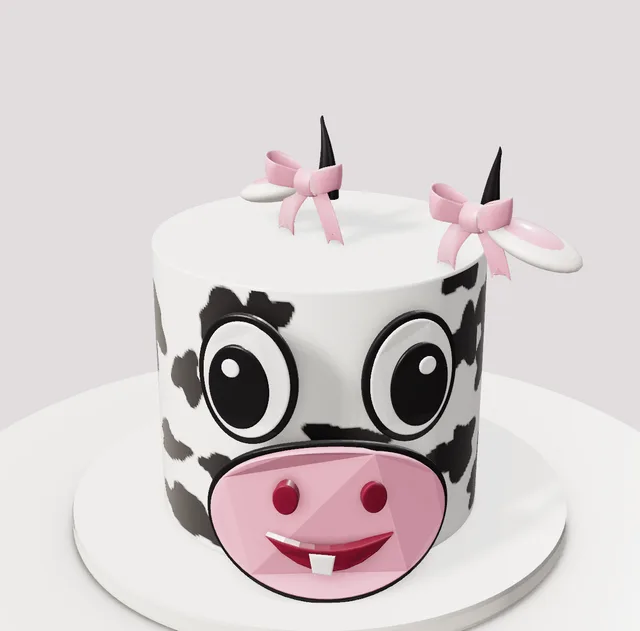
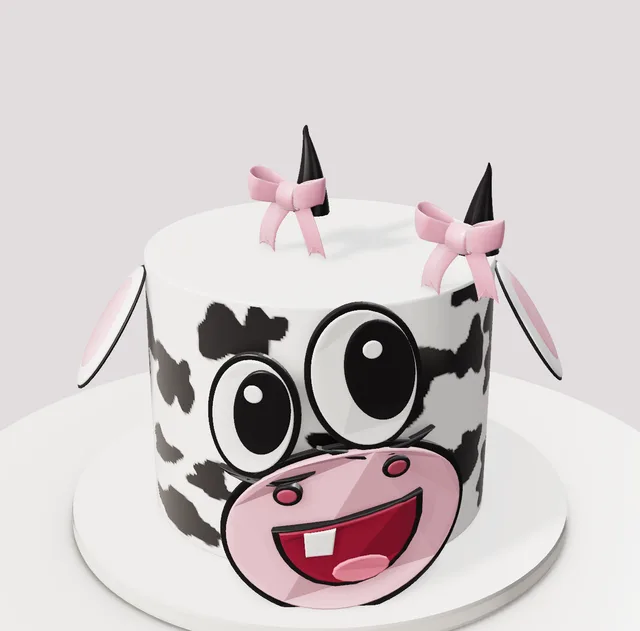
Signature cow: cartoon face redrawn from photo, floppy side ears, chunkier horns
Claude-Session: https://claude.ai/code/session_016sN14hzH19WJ5zrp8o2QGp

diff --git a/studio.html b/studio.html
@@ -1393,15 +1393,26 @@ function dollarFaceParts(q,c,mode,dc){const g=dollarGeo();g.scale(1.6,1.6,.35);g
 // ---------- bows, cow ----------
 function sugarBowParts(q,c){const g=bowGeo(q,.9);g.rotateX(-PI/2);return[[bowMat(c),g]]}
 function cowTopParts(q,c,mode,dc){const horns=[],ears=[],inner=[];const sp=(dc&&dc.spread)||1.15;
- for(const sd of[-1,1]){const pts=[];for(let i=0;i<=12;i++){const t=i/12;pts.push(new V3(sd*(sp-.1*t+.18*t*t),t*.95,-.05*t))}const tube=new T.TubeGeometry(new T.CatmullRomCurve3(pts),20,.16,14,false),pp=tube.attributes.position;for(let i=0;i<pp.count;i++){const y=pp.getY(i),k=Math.max(.15,1-y/1.05),cx=sd*(sp-.1*(y/.95)+.18*(y/.95)**2);pp.setX(i,cx+(pp.getX(i)-cx)*k);pp.setZ(i,pp.getZ(i)*k)}tube.computeVertexNormals();horns.push(tube);
-  const ear=new T.SphereGeometry(1,24,14);ear.scale(.6,.16,.38);ear.rotateZ(-sd*.28);ear.translate(sd*(sp+.62),.02,.12);ears.push(ear);const inn=new T.SphereGeometry(1,20,12);inn.scale(.44,.1,.27);inn.rotateZ(-sd*.28);inn.translate(sd*(sp+.62),.1,.14);inner.push(inn)}
+ for(const sd of[-1,1]){const pts=[];for(let i=0;i<=12;i++){const t=i/12;pts.push(new V3(sd*(sp-.1*t+.18*t*t),t*.95,-.05*t))}const tube=new T.TubeGeometry(new T.CatmullRomCurve3(pts),20,.24,14,false),pp=tube.attributes.position;for(let i=0;i<pp.count;i++){const y=pp.getY(i),k=Math.max(.15,1-y/1.05),cx=sd*(sp-.1*(y/.95)+.18*(y/.95)**2);pp.setX(i,cx+(pp.getX(i)-cx)*k);pp.setZ(i,pp.getZ(i)*k)}tube.computeVertexNormals();horns.push(tube);
+  }
  const bows=[];for(const sd of[-1,1]){const b=bowGeo(q,.8);b.translate(sd*sp,.25,.25);bows.push(b)}
- return[[dmat('#1d1b1f',{r:.35,cc:.5}),mg(horns)],[dmat('#fbf7f1',{r:.45,cc:.3}),mg(ears)],[dmat('#f3a6c0',{r:.45,cc:.3}),mg(inner)],[bowMat(c),mergeGeometries(bows)]]}
-function cowFaceParts(q,c,mode,dc){const black=[],white=[],pink=[],dark=[];
- for(const sd of[-1,1]){const cx=sd*.55,cy=.55;black.push(sgOval(cx,cy,.34,.44,.025));white.push(sgOval(cx,cy,.29,.39,.035));black.push(sgOval(cx+sd*.04,cy-.05,.2,.28,.05));white.push(sgOval(cx+sd*.08,cy+.08,.05,.05,.06))}
- black.push(sgOval(0,-.45,.86,.6,.025));pink.push(sgOval(0,-.45,.81,.55,.05));for(const sd of[-1,1])dark.push(sgOval(sd*.28,-.25,.07,.1,.07));
- const sm=new T.Shape();sm.moveTo(-.4,-.55);sm.quadraticCurveTo(0,-1.0,.4,-.55);sm.quadraticCurveTo(0,-.72,-.4,-.55);dark.push(flatShape(sm,.065,0));const tooth=new T.Shape();tooth.moveTo(-.12,-.66);tooth.lineTo(.02,-.67);tooth.lineTo(.0,-.8);tooth.lineTo(-.1,-.78);tooth.closePath();white.push(flatShape(tooth,.075,0));
- const R=sgR(dc),B=l=>sgBend(mg(l),R);return[[dmat('#1d1b1f',{r:.35,cc:.5}),B(black)],[dmat('#ffffff',{r:.35,cc:.4}),B(white)],[dmat(c,{r:.4,cc:.4}),B(pink)],[dmat('#7a1f35',{r:.4,cc:.4}),B(dark)]]}
+ return[[dmat('#1d1b1f',{r:.35,cc:.5}),mg(horns)],[bowMat(c),mergeGeometries(bows)]]}
+function cowEarParts(q,c){const e=new T.SphereGeometry(1,28,18);e.scale(.5,.78,.09);e.translate(0,-.62,0);e.rotateX(-.55);const o=new T.SphereGeometry(1,28,18);o.scale(.53,.81,.06);o.translate(0,-.62,-.02);o.rotateX(-.55);const i=new T.SphereGeometry(1,24,14);i.scale(.36,.6,.06);i.translate(0,-.6,.05);i.rotateX(-.55);return[[dmat('#ffffff',{r:.45,cc:.3}),e],[dmat('#1d1b1f',{r:.4,cc:.4}),o],[dmat(c,{r:.45,cc:.3}),i]]}
+function cowFaceParts(q,c,mode,dc){const black=[],white=[],pink=[],dark=[],red=[],tongue=[];
+ const rov=(x,y,rx,ry,rot,d)=>{const pts=[],cr=Math.cos(rot),sr=Math.sin(rot);for(let i=0;i<72;i++){const a=i/72*2*PI,u=rx*Math.cos(a),v=ry*Math.sin(a);pts.push(new T.Vector2(x+u*cr-v*sr,y+u*sr+v*cr))}return flatShape(new T.Shape(pts),d,0)};
+ // eyes: left smaller and lower, right bigger and higher, pupils looking up and right
+ const E=[[-.52,.3,.27,.4,-.12,.24],[.22,.6,.33,.47,.18,.3]];
+ for(const[x,y,rx,ry,r,pr]of E){black.push(rov(x,y,rx+.045,ry+.045,r,.03));white.push(rov(x,y,rx,ry,r,.04));black.push(rov(x+rx*.28,y+ry*.12,rx*.66,ry*.74,r,.055));white.push(rov(x+rx*.1,y+ry*.45,.05,.05,0,.065));
+  const l=new T.Shape();l.moveTo(x-rx*.9,y-ry*1.05);l.quadraticCurveTo(x+rx*.3,y-ry*1.45,x+rx*1.5,y-ry*.95);l.quadraticCurveTo(x+rx*.3,y-ry*1.3,x-rx*.9,y-ry*1.05);black.push(flatShape(l,.035,0))}
+ // muzzle
+ black.push(rov(.12,-.52,.9,.64,.22,.03));pink.push(rov(.12,-.52,.84,.58,.22,.05));
+ for(const[x,y]of[[-.28,-.24],[.43,-.06]]){black.push(rov(x,y,.085,.065,.2,.06));dark.push(rov(x,y,.055,.038,.2,.07))}
+ // big open smile: straight top lip, round bottom
+ const M=k=>{const cx=.12,cy=-.62,P=(x,y)=>[cx+(x-cx)*k,cy+(y-cy)*k];const s=new T.Shape();s.moveTo(...P(-.42,-.52));s.quadraticCurveTo(...P(.1,-.42),...P(.66,-.26));s.bezierCurveTo(...P(.72,-.75),...P(.25,-1.05),...P(-.12,-.92));s.quadraticCurveTo(...P(-.38,-.8),...P(-.42,-.52));return s};
+ black.push(flatShape(M(.92),.06,0));red.push(flatShape(M(.82),.07,0));
+ const tg=new T.Shape();tg.absellipse(.2,-.8,.18,.08,0,2*PI,false,.15);tongue.push(flatShape(tg,.075,0));
+ const th=new T.Shape();th.moveTo(-.16,-.52);th.lineTo(.02,-.49);th.lineTo(.0,-.66);th.lineTo(-.15,-.68);th.closePath();white.push(flatShape(th,.08,0));
+ const R=sgR(dc),B=l=>sgBend(mg(l),R);return[[dmat('#1d1b1f',{r:.35,cc:.5}),B(black)],[dmat('#ffffff',{r:.35,cc:.4}),B(white)],[dmat(c,{r:.4,cc:.4}),B(pink)],[dmat('#a0475c',{r:.4,cc:.4}),B(dark)],[dmat('#8a2338',{r:.45,cc:.4}),B(red)],[dmat('#e77f96',{r:.45,cc:.4}),B(tongue)]]}
 // ---------- baby shower ----------
 function teddyParts(q,c){const S=(sx,sy,sz,x,y,z)=>{const g=new T.SphereGeometry(1,20,14);g.scale(sx,sy,sz);g.translate(x,y,z);return g};
  const fur=[S(.34,.36,.3,0,.36,0),S(.28,.26,.26,0,.92,0),S(.1,.1,.06,-.2,1.14,0),S(.1,.1,.06,.2,1.14,0),S(.12,.1,.1,-.3,.42,.16),S(.12,.1,.1,.3,.42,.16),S(.13,.12,.18,-.18,.1,.26),S(.13,.12,.18,.18,.1,.26)];
@@ -1451,7 +1462,8 @@ Object.assign(DECOR,{
  dollarsign:{label:'Gold Dollar Signs',layouts:['cluster','crown'],layout:'cluster',count:2,max:6,color:'#d4ae5a',colors:['#d4ae5a','#c9ccd2','#1d1b1f'],sp:1,sink:.35,noTilt:true,spin:0,make:dollarStandParts},
  dollarface:{label:'Dollar Sign Plaque',layouts:['scatter','band'],layout:'scatter',count:1,max:6,color:'#d4ae5a',colors:['#d4ae5a','#c9ccd2','#1d1b1f'],sp:1.2,side:'face',roll:0,sink:0,embed:-.02,make:dollarFaceParts},
  sugarbows:{label:'Fondant Bows',layouts:['band','scatter','cascade','crown'],layout:'band',count:4,max:16,color:'#f3a6c0',colors:['#f3a6c0','#fbf7f1','#d4ae5a','#c9dbef','#e8475f','#1d1b1f'],sp:1.4,side:'face',roll:.2,sink:0,embed:-.02,make:sugarBowParts},
- cowtop:{label:'Cow Horns, Ears And Bows',layouts:['cluster'],layout:'cluster',count:1,max:1,color:'#f3a6c0',colors:['#f3a6c0','#c9dbef','#fbf7f1','#e8475f'],sp:3,side:'up',sink:.02,noTilt:true,spin:0,make:cowTopParts},
+ cowtop:{label:'Cow Horns And Bows',layouts:['cluster'],layout:'cluster',count:1,max:1,color:'#f3a6c0',colors:['#f3a6c0','#c9dbef','#fbf7f1','#e8475f'],sp:3,side:'up',sink:.02,noTilt:true,spin:0,make:cowTopParts},
+ cowear:{label:'Floppy Cow Ear',layouts:['band'],layout:'band',count:1,max:2,color:'#f3b6c8',colors:['#f3b6c8','#f3a6c0'],sp:3,roll:0,sink:0,embed:.02,make:cowEarParts},
  cowface:{label:'Cartoon Cow Face',layouts:['band','scatter'],layout:'band',count:1,max:1,color:'#f3a6c0',colors:['#f3a6c0','#e9a6ba'],sp:3,side:'face',roll:0,sink:0,embed:-.02,make:cowFaceParts},
  teddy:{label:'Fondant Teddy Bears',layouts:['cluster','crown','scatter'],layout:'cluster',count:1,max:6,color:'#fbf7f1',colors:['#fbf7f1','#c9a26b','#f3c1cf','#c9dbef'],sp:1.4,side:'up',sink:.02,noTilt:true,spin:0,make:teddyParts},
  abcblocks:{label:'Alphabet Blocks',mixes:true,layouts:['cluster','crown','scatter'],layout:'cluster',count:3,max:12,color:'#2f6fd0',colors:['#2f6fd0','#e8475f','#5cc06c','#f2c230','#f3a6c0'],sp:.7,side:'up',sink:0,embed:.02,noTilt:true,make:abcBlockParts},
@@ -1461,7 +1473,7 @@ Object.assign(DECOR,{
  brooch:{label:'Jeweled Brooch Burst',layouts:['band','scatter'],layout:'band',count:1,max:4,color:'#d9a08a',colors:['#d9a08a','#d4ae5a','#c9ccd2'],sp:2,side:'face',roll:0,sink:0,embed:-.02,make:broochParts},
  hoop:{label:'Floral Hoop Topper',layouts:['cluster'],layout:'cluster',count:1,max:1,color:'#d4ae5a',colors:['#d4ae5a','#c9ccd2','#d9a08a'],sp:2,sink:.4,noTilt:true,spin:0,make:hoopParts},
  bee:{label:'Bumble Bee',layouts:['cluster','crown','scatter'],layout:'cluster',count:1,max:6,color:'#ffd21f',colors:['#ffd21f'],sp:1.4,side:'up',sink:.02,noTilt:true,spin:0,make:beeParts}});
-DECOR_CATS.push({key:'signature',label:'Signature Cake Pieces',items:['soccerball','football','hoopball','baseball2','popcorn','ticket','clapper','crawfish','corncob','potato','potlid','cash','dollarsign','dollarface','sugarbows','cowtop','cowface','teddy','abcblocks','balloon','ladder','buttons','brooch','hoop','bee']});
+DECOR_CATS.push({key:'signature',label:'Signature Cake Pieces',items:['soccerball','football','hoopball','baseball2','popcorn','ticket','clapper','crawfish','corncob','potato','potlid','cash','dollarsign','dollarface','sugarbows','cowtop','cowear','cowface','teddy','abcblocks','balloon','ladder','buttons','brooch','hoop','bee']});
 {const ic=(k,b)=>DECOR_ICONS[k]=di(b);
  ic('soccerball','<circle cx="20" cy="15" r="10" fill="#fff" stroke="#222"/><path d="M20 10l4 3-1.5 4.5h-5L16 13z" fill="#222"/>');
  ic('football','<ellipse cx="20" cy="15" rx="13" ry="8" fill="#7a4022"/><path d="M15 15h10M17 13v4M20 13v4M23 13v4" stroke="#fff" stroke-width="1.2"/>');
@@ -1479,6 +1491,7 @@ DECOR_CATS.push({key:'signature',label:'Signature Cake Pieces',items:['soccerbal
  ic('dollarface','<rect x="8" y="4" width="24" height="22" rx="3" fill="#fff4ef"/><text x="20" y="22" font-size="17" text-anchor="middle" fill="#d4ae5a" font-weight="700">$</text>');
  ic('sugarbows','<path d="M20 15l-10-6v12zM20 15l10-6v12z" fill="#f3a6c0"/><circle cx="20" cy="15" r="2.6" fill="#e17ca0"/>');
  ic('cowtop','<path d="M10 22q-2-10 3-14M30 22q2-10-3-14" stroke="#1d1b1f" stroke-width="3" fill="none"/><ellipse cx="5" cy="22" rx="5" ry="2.5" fill="#f3a6c0"/><ellipse cx="35" cy="22" rx="5" ry="2.5" fill="#f3a6c0"/>');
+ ic('cowear','<ellipse cx="20" cy="20" rx="9" ry="14" fill="#fff" stroke="#1d1b1f" stroke-width="2"/><ellipse cx="20" cy="21" rx="6" ry="10" fill="#f3b6c8"/>');
  ic('cowface','<ellipse cx="14" cy="10" rx="4" ry="5" fill="#fff" stroke="#1d1b1f"/><ellipse cx="26" cy="10" rx="4" ry="5" fill="#fff" stroke="#1d1b1f"/><ellipse cx="20" cy="21" rx="10" ry="6" fill="#f3a6c0" stroke="#1d1b1f"/>');
  ic('teddy','<circle cx="20" cy="20" r="7" fill="#fbf7f1" stroke="#d9cdbd"/><circle cx="20" cy="10" r="5" fill="#fbf7f1" stroke="#d9cdbd"/><circle cx="16" cy="6.5" r="2" fill="#fbf7f1" stroke="#d9cdbd"/><circle cx="24" cy="6.5" r="2" fill="#fbf7f1" stroke="#d9cdbd"/>');
  ic('abcblocks','<rect x="7" y="13" width="12" height="12" fill="#fff" stroke="#2f6fd0"/><rect x="21" y="13" width="12" height="12" fill="#fff" stroke="#e8475f"/><rect x="14" y="2" width="12" height="11" fill="#fff" stroke="#5cc06c"/>');
@@ -1566,8 +1579,8 @@ THEMES.unshift(
   newTier(8.6,6,{color:'#7cc8b8',finish:'fondant',top:'none',bottom:'none',stencil:{pattern:'harlequin',color:'#c4e8df',size:1.6,height:3,y:-1.4},decor:[DC('glitterspheres','cascade',6,{color:'#b0825f',rot:-100,size:290}),DC('glitterspheres','cascade',5,{color:'#f3ead8',rot:-96,size:300}),DC('spheres','cascade',3,{color:'#5fb3a3',rot:-104,size:280}),DC('glitterspheres','cascade',4,{color:'#8c6a52',rot:-100,size:220})]}),
   newTier(7.6,5.8,{color:'#7cc8b8',finish:'fondant',top:'none',bottom:'none',decor:[DC('glitterspheres','cascade',5,{color:'#b0825f',rot:-100,size:280}),DC('glitterspheres','cascade',4,{color:'#f3ead8',rot:-96,size:290}),DC('spheres','cascade',3,{color:'#5fb3a3',rot:-104,size:270}),DC('glitterspheres','cascade',3,{color:'#8c6a52',rot:-100,size:210})]}),
   newTier(6.6,5.6,{color:'#7cc8b8',finish:'fondant',top:'none',bottom:'none',decor:[DC('glitterspheres','cascade',5,{color:'#b0825f',rot:-100,size:270}),DC('glitterspheres','cascade',4,{color:'#f3ead8',rot:-96,size:280}),DC('spheres','cascade',3,{color:'#5fb3a3',rot:-104,size:260}),DC('sprinkles','cascade',220,{mix:['#5fb3a3','#d4ae5a','#c9ccd2','#fbf7f1'],rot:30})]})]}},
- {key:'sig_cow',name:'Pink Bow Cow',tag:SIG,blurb:'A tall white cow cake with black spots, a cartoon face and pink nose, black horns, floppy ears and pink bows.',d:{board:'white',boardColor:'#fbf7f1',topper:'none',tiers:[
-  newTier(7,6,{color:'#ffffff',finish:'fondant',print:'cow',printColor:'#1d1b1f',top:'none',bottom:'none',decor:[DC('cowface','band',1,{color:'#f3a6c0',size:285,R:3.5,rot:55}),DC('cowtop','cluster',1,{color:'#f3a6c0',size:170,center:true,face:95})]})]}},
+ {key:'sig_cow',name:'Pink Bow Cow',tag:SIG,blurb:'A white cow cake with black spots, big cartoon eyes, a pink muzzle with a wide open grin, floppy pink-lined ears, black horns and pink bows.',d:{board:'white',boardColor:'#fbf7f1',topper:'none',tiers:[
+  newTier(8,6.2,{color:'#ffffff',finish:'fondant',print:'cow',printColor:'#1d1b1f',top:'none',bottom:'none',decor:[DC('cowface','band',1,{color:'#f3b6c8',size:300,R:4,rot:55,y:.3}),DC('cowear','band',1,{color:'#f3b6c8',size:200,rot:-25,y:2.6}),DC('cowear','band',1,{color:'#f3b6c8',size:200,rot:135,y:2.6}),DC('cowtop','cluster',1,{color:'#f3a6c0',size:190,center:true,face:95})]})]}},
  {key:'sig_pillows',name:'Gold Damask Pillows',tag:SIG,blurb:'A pillow cake: a base tier in gold damask with a ring of ivory roses, a puffy pleated pillow with pinched corners and gold tassels, and a silver rose dome topped with ivory roses.',d:{board:'silver',boardShape:'square',topper:'none',tiers:[
   newTier(10,3.6,{shape:'square',color:'#fbf7f1',finish:'fondant',texture:'dimple',prof:'pillow',top:'rope',pipe:'#d4ae5a',bottom:'rope',bottomColor:'#d4ae5a',stencil:{pattern:'damask',color:'#d4ae5a',size:1.8,height:1.8,y:-.8},decor:[DC('roses','band',16,{color:'#fbf7f1',size:130,y:-1.4})]}),
   newTier(7.5,3.2,{shape:'square',color:'#fbf7f1',finish:'fondant',texture:'ruffle',prof:'pillow',top:'none',bottom:'scrolls',bottomColor:'#d4ae5a'}),

diff --git a/tools/signature-decor.js b/tools/signature-decor.js
@@ -61,15 +61,26 @@ function dollarFaceParts(q,c,mode,dc){const g=dollarGeo();g.scale(1.6,1.6,.35);g
 // ---------- bows, cow ----------
 function sugarBowParts(q,c){const g=bowGeo(q,.9);g.rotateX(-PI/2);return[[bowMat(c),g]]}
 function cowTopParts(q,c,mode,dc){const horns=[],ears=[],inner=[];const sp=(dc&&dc.spread)||1.15;
- for(const sd of[-1,1]){const pts=[];for(let i=0;i<=12;i++){const t=i/12;pts.push(new V3(sd*(sp-.1*t+.18*t*t),t*.95,-.05*t))}const tube=new T.TubeGeometry(new T.CatmullRomCurve3(pts),20,.16,14,false),pp=tube.attributes.position;for(let i=0;i<pp.count;i++){const y=pp.getY(i),k=Math.max(.15,1-y/1.05),cx=sd*(sp-.1*(y/.95)+.18*(y/.95)**2);pp.setX(i,cx+(pp.getX(i)-cx)*k);pp.setZ(i,pp.getZ(i)*k)}tube.computeVertexNormals();horns.push(tube);
-  const ear=new T.SphereGeometry(1,24,14);ear.scale(.6,.16,.38);ear.rotateZ(-sd*.28);ear.translate(sd*(sp+.62),.02,.12);ears.push(ear);const inn=new T.SphereGeometry(1,20,12);inn.scale(.44,.1,.27);inn.rotateZ(-sd*.28);inn.translate(sd*(sp+.62),.1,.14);inner.push(inn)}
+ for(const sd of[-1,1]){const pts=[];for(let i=0;i<=12;i++){const t=i/12;pts.push(new V3(sd*(sp-.1*t+.18*t*t),t*.95,-.05*t))}const tube=new T.TubeGeometry(new T.CatmullRomCurve3(pts),20,.24,14,false),pp=tube.attributes.position;for(let i=0;i<pp.count;i++){const y=pp.getY(i),k=Math.max(.15,1-y/1.05),cx=sd*(sp-.1*(y/.95)+.18*(y/.95)**2);pp.setX(i,cx+(pp.getX(i)-cx)*k);pp.setZ(i,pp.getZ(i)*k)}tube.computeVertexNormals();horns.push(tube);
+  }
  const bows=[];for(const sd of[-1,1]){const b=bowGeo(q,.8);b.translate(sd*sp,.25,.25);bows.push(b)}
- return[[dmat('#1d1b1f',{r:.35,cc:.5}),mg(horns)],[dmat('#fbf7f1',{r:.45,cc:.3}),mg(ears)],[dmat('#f3a6c0',{r:.45,cc:.3}),mg(inner)],[bowMat(c),mergeGeometries(bows)]]}
-function cowFaceParts(q,c,mode,dc){const black=[],white=[],pink=[],dark=[];
- for(const sd of[-1,1]){const cx=sd*.55,cy=.55;black.push(sgOval(cx,cy,.34,.44,.025));white.push(sgOval(cx,cy,.29,.39,.035));black.push(sgOval(cx+sd*.04,cy-.05,.2,.28,.05));white.push(sgOval(cx+sd*.08,cy+.08,.05,.05,.06))}
- black.push(sgOval(0,-.45,.86,.6,.025));pink.push(sgOval(0,-.45,.81,.55,.05));for(const sd of[-1,1])dark.push(sgOval(sd*.28,-.25,.07,.1,.07));
- const sm=new T.Shape();sm.moveTo(-.4,-.55);sm.quadraticCurveTo(0,-1.0,.4,-.55);sm.quadraticCurveTo(0,-.72,-.4,-.55);dark.push(flatShape(sm,.065,0));const tooth=new T.Shape();tooth.moveTo(-.12,-.66);tooth.lineTo(.02,-.67);tooth.lineTo(.0,-.8);tooth.lineTo(-.1,-.78);tooth.closePath();white.push(flatShape(tooth,.075,0));
- const R=sgR(dc),B=l=>sgBend(mg(l),R);return[[dmat('#1d1b1f',{r:.35,cc:.5}),B(black)],[dmat('#ffffff',{r:.35,cc:.4}),B(white)],[dmat(c,{r:.4,cc:.4}),B(pink)],[dmat('#7a1f35',{r:.4,cc:.4}),B(dark)]]}
+ return[[dmat('#1d1b1f',{r:.35,cc:.5}),mg(horns)],[bowMat(c),mergeGeometries(bows)]]}
+function cowEarParts(q,c){const e=new T.SphereGeometry(1,28,18);e.scale(.5,.78,.09);e.translate(0,-.62,0);e.rotateX(-.55);const o=new T.SphereGeometry(1,28,18);o.scale(.53,.81,.06);o.translate(0,-.62,-.02);o.rotateX(-.55);const i=new T.SphereGeometry(1,24,14);i.scale(.36,.6,.06);i.translate(0,-.6,.05);i.rotateX(-.55);return[[dmat('#ffffff',{r:.45,cc:.3}),e],[dmat('#1d1b1f',{r:.4,cc:.4}),o],[dmat(c,{r:.45,cc:.3}),i]]}
+function cowFaceParts(q,c,mode,dc){const black=[],white=[],pink=[],dark=[],red=[],tongue=[];
+ const rov=(x,y,rx,ry,rot,d)=>{const pts=[],cr=Math.cos(rot),sr=Math.sin(rot);for(let i=0;i<72;i++){const a=i/72*2*PI,u=rx*Math.cos(a),v=ry*Math.sin(a);pts.push(new T.Vector2(x+u*cr-v*sr,y+u*sr+v*cr))}return flatShape(new T.Shape(pts),d,0)};
+ // eyes: left smaller and lower, right bigger and higher, pupils looking up and right
+ const E=[[-.52,.3,.27,.4,-.12,.24],[.22,.6,.33,.47,.18,.3]];
+ for(const[x,y,rx,ry,r,pr]of E){black.push(rov(x,y,rx+.045,ry+.045,r,.03));white.push(rov(x,y,rx,ry,r,.04));black.push(rov(x+rx*.28,y+ry*.12,rx*.66,ry*.74,r,.055));white.push(rov(x+rx*.1,y+ry*.45,.05,.05,0,.065));
+  const l=new T.Shape();l.moveTo(x-rx*.9,y-ry*1.05);l.quadraticCurveTo(x+rx*.3,y-ry*1.45,x+rx*1.5,y-ry*.95);l.quadraticCurveTo(x+rx*.3,y-ry*1.3,x-rx*.9,y-ry*1.05);black.push(flatShape(l,.035,0))}
+ // muzzle
+ black.push(rov(.12,-.52,.9,.64,.22,.03));pink.push(rov(.12,-.52,.84,.58,.22,.05));
+ for(const[x,y]of[[-.28,-.24],[.43,-.06]]){black.push(rov(x,y,.085,.065,.2,.06));dark.push(rov(x,y,.055,.038,.2,.07))}
+ // big open smile: straight top lip, round bottom
+ const M=k=>{const cx=.12,cy=-.62,P=(x,y)=>[cx+(x-cx)*k,cy+(y-cy)*k];const s=new T.Shape();s.moveTo(...P(-.42,-.52));s.quadraticCurveTo(...P(.1,-.42),...P(.66,-.26));s.bezierCurveTo(...P(.72,-.75),...P(.25,-1.05),...P(-.12,-.92));s.quadraticCurveTo(...P(-.38,-.8),...P(-.42,-.52));return s};
+ black.push(flatShape(M(.92),.06,0));red.push(flatShape(M(.82),.07,0));
+ const tg=new T.Shape();tg.absellipse(.2,-.8,.18,.08,0,2*PI,false,.15);tongue.push(flatShape(tg,.075,0));
+ const th=new T.Shape();th.moveTo(-.16,-.52);th.lineTo(.02,-.49);th.lineTo(.0,-.66);th.lineTo(-.15,-.68);th.closePath();white.push(flatShape(th,.08,0));
+ const R=sgR(dc),B=l=>sgBend(mg(l),R);return[[dmat('#1d1b1f',{r:.35,cc:.5}),B(black)],[dmat('#ffffff',{r:.35,cc:.4}),B(white)],[dmat(c,{r:.4,cc:.4}),B(pink)],[dmat('#a0475c',{r:.4,cc:.4}),B(dark)],[dmat('#8a2338',{r:.45,cc:.4}),B(red)],[dmat('#e77f96',{r:.45,cc:.4}),B(tongue)]]}
 // ---------- baby shower ----------
 function teddyParts(q,c){const S=(sx,sy,sz,x,y,z)=>{const g=new T.SphereGeometry(1,20,14);g.scale(sx,sy,sz);g.translate(x,y,z);return g};
  const fur=[S(.34,.36,.3,0,.36,0),S(.28,.26,.26,0,.92,0),S(.1,.1,.06,-.2,1.14,0),S(.1,.1,.06,.2,1.14,0),S(.12,.1,.1,-.3,.42,.16),S(.12,.1,.1,.3,.42,.16),S(.13,.12,.18,-.18,.1,.26),S(.13,.12,.18,.18,.1,.26)];
@@ -119,7 +130,8 @@ Object.assign(DECOR,{
  dollarsign:{label:'Gold Dollar Signs',layouts:['cluster','crown'],layout:'cluster',count:2,max:6,color:'#d4ae5a',colors:['#d4ae5a','#c9ccd2','#1d1b1f'],sp:1,sink:.35,noTilt:true,spin:0,make:dollarStandParts},
  dollarface:{label:'Dollar Sign Plaque',layouts:['scatter','band'],layout:'scatter',count:1,max:6,color:'#d4ae5a',colors:['#d4ae5a','#c9ccd2','#1d1b1f'],sp:1.2,side:'face',roll:0,sink:0,embed:-.02,make:dollarFaceParts},
  sugarbows:{label:'Fondant Bows',layouts:['band','scatter','cascade','crown'],layout:'band',count:4,max:16,color:'#f3a6c0',colors:['#f3a6c0','#fbf7f1','#d4ae5a','#c9dbef','#e8475f','#1d1b1f'],sp:1.4,side:'face',roll:.2,sink:0,embed:-.02,make:sugarBowParts},
- cowtop:{label:'Cow Horns, Ears And Bows',layouts:['cluster'],layout:'cluster',count:1,max:1,color:'#f3a6c0',colors:['#f3a6c0','#c9dbef','#fbf7f1','#e8475f'],sp:3,side:'up',sink:.02,noTilt:true,spin:0,make:cowTopParts},
+ cowtop:{label:'Cow Horns And Bows',layouts:['cluster'],layout:'cluster',count:1,max:1,color:'#f3a6c0',colors:['#f3a6c0','#c9dbef','#fbf7f1','#e8475f'],sp:3,side:'up',sink:.02,noTilt:true,spin:0,make:cowTopParts},
+ cowear:{label:'Floppy Cow Ear',layouts:['band'],layout:'band',count:1,max:2,color:'#f3b6c8',colors:['#f3b6c8','#f3a6c0'],sp:3,roll:0,sink:0,embed:.02,make:cowEarParts},
  cowface:{label:'Cartoon Cow Face',layouts:['band','scatter'],layout:'band',count:1,max:1,color:'#f3a6c0',colors:['#f3a6c0','#e9a6ba'],sp:3,side:'face',roll:0,sink:0,embed:-.02,make:cowFaceParts},
  teddy:{label:'Fondant Teddy Bears',layouts:['cluster','crown','scatter'],layout:'cluster',count:1,max:6,color:'#fbf7f1',colors:['#fbf7f1','#c9a26b','#f3c1cf','#c9dbef'],sp:1.4,side:'up',sink:.02,noTilt:true,spin:0,make:teddyParts},
  abcblocks:{label:'Alphabet Blocks',mixes:true,layouts:['cluster','crown','scatter'],layout:'cluster',count:3,max:12,color:'#2f6fd0',colors:['#2f6fd0','#e8475f','#5cc06c','#f2c230','#f3a6c0'],sp:.7,side:'up',sink:0,embed:.02,noTilt:true,make:abcBlockParts},
@@ -129,7 +141,7 @@ Object.assign(DECOR,{
  brooch:{label:'Jeweled Brooch Burst',layouts:['band','scatter'],layout:'band',count:1,max:4,color:'#d9a08a',colors:['#d9a08a','#d4ae5a','#c9ccd2'],sp:2,side:'face',roll:0,sink:0,embed:-.02,make:broochParts},
  hoop:{label:'Floral Hoop Topper',layouts:['cluster'],layout:'cluster',count:1,max:1,color:'#d4ae5a',colors:['#d4ae5a','#c9ccd2','#d9a08a'],sp:2,sink:.4,noTilt:true,spin:0,make:hoopParts},
  bee:{label:'Bumble Bee',layouts:['cluster','crown','scatter'],layout:'cluster',count:1,max:6,color:'#ffd21f',colors:['#ffd21f'],sp:1.4,side:'up',sink:.02,noTilt:true,spin:0,make:beeParts}});
-DECOR_CATS.push({key:'signature',label:'Signature Cake Pieces',items:['soccerball','football','hoopball','baseball2','popcorn','ticket','clapper','crawfish','corncob','potato','potlid','cash','dollarsign','dollarface','sugarbows','cowtop','cowface','teddy','abcblocks','balloon','ladder','buttons','brooch','hoop','bee']});
+DECOR_CATS.push({key:'signature',label:'Signature Cake Pieces',items:['soccerball','football','hoopball','baseball2','popcorn','ticket','clapper','crawfish','corncob','potato','potlid','cash','dollarsign','dollarface','sugarbows','cowtop','cowear','cowface','teddy','abcblocks','balloon','ladder','buttons','brooch','hoop','bee']});
 {const ic=(k,b)=>DECOR_ICONS[k]=di(b);
  ic('soccerball','<circle cx="20" cy="15" r="10" fill="#fff" stroke="#222"/><path d="M20 10l4 3-1.5 4.5h-5L16 13z" fill="#222"/>');
  ic('football','<ellipse cx="20" cy="15" rx="13" ry="8" fill="#7a4022"/><path d="M15 15h10M17 13v4M20 13v4M23 13v4" stroke="#fff" stroke-width="1.2"/>');
@@ -147,6 +159,7 @@ DECOR_CATS.push({key:'signature',label:'Signature Cake Pieces',items:['soccerbal
  ic('dollarface','<rect x="8" y="4" width="24" height="22" rx="3" fill="#fff4ef"/><text x="20" y="22" font-size="17" text-anchor="middle" fill="#d4ae5a" font-weight="700">$</text>');
  ic('sugarbows','<path d="M20 15l-10-6v12zM20 15l10-6v12z" fill="#f3a6c0"/><circle cx="20" cy="15" r="2.6" fill="#e17ca0"/>');
  ic('cowtop','<path d="M10 22q-2-10 3-14M30 22q2-10-3-14" stroke="#1d1b1f" stroke-width="3" fill="none"/><ellipse cx="5" cy="22" rx="5" ry="2.5" fill="#f3a6c0"/><ellipse cx="35" cy="22" rx="5" ry="2.5" fill="#f3a6c0"/>');
+ ic('cowear','<ellipse cx="20" cy="20" rx="9" ry="14" fill="#fff" stroke="#1d1b1f" stroke-width="2"/><ellipse cx="20" cy="21" rx="6" ry="10" fill="#f3b6c8"/>');
  ic('cowface','<ellipse cx="14" cy="10" rx="4" ry="5" fill="#fff" stroke="#1d1b1f"/><ellipse cx="26" cy="10" rx="4" ry="5" fill="#fff" stroke="#1d1b1f"/><ellipse cx="20" cy="21" rx="10" ry="6" fill="#f3a6c0" stroke="#1d1b1f"/>');
  ic('teddy','<circle cx="20" cy="20" r="7" fill="#fbf7f1" stroke="#d9cdbd"/><circle cx="20" cy="10" r="5" fill="#fbf7f1" stroke="#d9cdbd"/><circle cx="16" cy="6.5" r="2" fill="#fbf7f1" stroke="#d9cdbd"/><circle cx="24" cy="6.5" r="2" fill="#fbf7f1" stroke="#d9cdbd"/>');
  ic('abcblocks','<rect x="7" y="13" width="12" height="12" fill="#fff" stroke="#2f6fd0"/><rect x="21" y="13" width="12" height="12" fill="#fff" stroke="#e8475f"/><rect x="14" y="2" width="12" height="11" fill="#fff" stroke="#5cc06c"/>');
@@ -234,8 +247,8 @@ THEMES.unshift(
   newTier(8.6,6,{color:'#7cc8b8',finish:'fondant',top:'none',bottom:'none',stencil:{pattern:'harlequin',color:'#c4e8df',size:1.6,height:3,y:-1.4},decor:[DC('glitterspheres','cascade',6,{color:'#b0825f',rot:-100,size:290}),DC('glitterspheres','cascade',5,{color:'#f3ead8',rot:-96,size:300}),DC('spheres','cascade',3,{color:'#5fb3a3',rot:-104,size:280}),DC('glitterspheres','cascade',4,{color:'#8c6a52',rot:-100,size:220})]}),
   newTier(7.6,5.8,{color:'#7cc8b8',finish:'fondant',top:'none',bottom:'none',decor:[DC('glitterspheres','cascade',5,{color:'#b0825f',rot:-100,size:280}),DC('glitterspheres','cascade',4,{color:'#f3ead8',rot:-96,size:290}),DC('spheres','cascade',3,{color:'#5fb3a3',rot:-104,size:270}),DC('glitterspheres','cascade',3,{color:'#8c6a52',rot:-100,size:210})]}),
   newTier(6.6,5.6,{color:'#7cc8b8',finish:'fondant',top:'none',bottom:'none',decor:[DC('glitterspheres','cascade',5,{color:'#b0825f',rot:-100,size:270}),DC('glitterspheres','cascade',4,{color:'#f3ead8',rot:-96,size:280}),DC('spheres','cascade',3,{color:'#5fb3a3',rot:-104,size:260}),DC('sprinkles','cascade',220,{mix:['#5fb3a3','#d4ae5a','#c9ccd2','#fbf7f1'],rot:30})]})]}},
- {key:'sig_cow',name:'Pink Bow Cow',tag:SIG,blurb:'A tall white cow cake with black spots, a cartoon face and pink nose, black horns, floppy ears and pink bows.',d:{board:'white',boardColor:'#fbf7f1',topper:'none',tiers:[
-  newTier(7,6,{color:'#ffffff',finish:'fondant',print:'cow',printColor:'#1d1b1f',top:'none',bottom:'none',decor:[DC('cowface','band',1,{color:'#f3a6c0',size:285,R:3.5,rot:55}),DC('cowtop','cluster',1,{color:'#f3a6c0',size:170,center:true,face:95})]})]}},
+ {key:'sig_cow',name:'Pink Bow Cow',tag:SIG,blurb:'A white cow cake with black spots, big cartoon eyes, a pink muzzle with a wide open grin, floppy pink-lined ears, black horns and pink bows.',d:{board:'white',boardColor:'#fbf7f1',topper:'none',tiers:[
+  newTier(8,6.2,{color:'#ffffff',finish:'fondant',print:'cow',printColor:'#1d1b1f',top:'none',bottom:'none',decor:[DC('cowface','band',1,{color:'#f3b6c8',size:300,R:4,rot:55,y:.3}),DC('cowear','band',1,{color:'#f3b6c8',size:200,rot:-25,y:2.6}),DC('cowear','band',1,{color:'#f3b6c8',size:200,rot:135,y:2.6}),DC('cowtop','cluster',1,{color:'#f3a6c0',size:190,center:true,face:95})]})]}},
  {key:'sig_pillows',name:'Gold Damask Pillows',tag:SIG,blurb:'A pillow cake: a base tier in gold damask with a ring of ivory roses, a puffy pleated pillow with pinched corners and gold tassels, and a silver rose dome topped with ivory roses.',d:{board:'silver',boardShape:'square',topper:'none',tiers:[
   newTier(10,3.6,{shape:'square',color:'#fbf7f1',finish:'fondant',texture:'dimple',prof:'pillow',top:'rope',pipe:'#d4ae5a',bottom:'rope',bottomColor:'#d4ae5a',stencil:{pattern:'damask',color:'#d4ae5a',size:1.8,height:1.8,y:-.8},decor:[DC('roses','band',16,{color:'#fbf7f1',size:130,y:-1.4})]}),
   newTier(7.5,3.2,{shape:'square',color:'#fbf7f1',finish:'fondant',texture:'ruffle',prof:'pillow',top:'none',bottom:'scrolls',bottomColor:'#d4ae5a'}),

diff --git a/tools/sig-pieces.js b/tools/sig-pieces.js
@@ -61,15 +61,26 @@ function dollarFaceParts(q,c,mode,dc){const g=dollarGeo();g.scale(1.6,1.6,.35);g
 // ---------- bows, cow ----------
 function sugarBowParts(q,c){const g=bowGeo(q,.9);g.rotateX(-PI/2);return[[bowMat(c),g]]}
 function cowTopParts(q,c,mode,dc){const horns=[],ears=[],inner=[];const sp=(dc&&dc.spread)||1.15;
- for(const sd of[-1,1]){const pts=[];for(let i=0;i<=12;i++){const t=i/12;pts.push(new V3(sd*(sp-.1*t+.18*t*t),t*.95,-.05*t))}const tube=new T.TubeGeometry(new T.CatmullRomCurve3(pts),20,.16,14,false),pp=tube.attributes.position;for(let i=0;i<pp.count;i++){const y=pp.getY(i),k=Math.max(.15,1-y/1.05),cx=sd*(sp-.1*(y/.95)+.18*(y/.95)**2);pp.setX(i,cx+(pp.getX(i)-cx)*k);pp.setZ(i,pp.getZ(i)*k)}tube.computeVertexNormals();horns.push(tube);
-  const ear=new T.SphereGeometry(1,24,14);ear.scale(.6,.16,.38);ear.rotateZ(-sd*.28);ear.translate(sd*(sp+.62),.02,.12);ears.push(ear);const inn=new T.SphereGeometry(1,20,12);inn.scale(.44,.1,.27);inn.rotateZ(-sd*.28);inn.translate(sd*(sp+.62),.1,.14);inner.push(inn)}
+ for(const sd of[-1,1]){const pts=[];for(let i=0;i<=12;i++){const t=i/12;pts.push(new V3(sd*(sp-.1*t+.18*t*t),t*.95,-.05*t))}const tube=new T.TubeGeometry(new T.CatmullRomCurve3(pts),20,.24,14,false),pp=tube.attributes.position;for(let i=0;i<pp.count;i++){const y=pp.getY(i),k=Math.max(.15,1-y/1.05),cx=sd*(sp-.1*(y/.95)+.18*(y/.95)**2);pp.setX(i,cx+(pp.getX(i)-cx)*k);pp.setZ(i,pp.getZ(i)*k)}tube.computeVertexNormals();horns.push(tube);
+  }
  const bows=[];for(const sd of[-1,1]){const b=bowGeo(q,.8);b.translate(sd*sp,.25,.25);bows.push(b)}
- return[[dmat('#1d1b1f',{r:.35,cc:.5}),mg(horns)],[dmat('#fbf7f1',{r:.45,cc:.3}),mg(ears)],[dmat('#f3a6c0',{r:.45,cc:.3}),mg(inner)],[bowMat(c),mergeGeometries(bows)]]}
-function cowFaceParts(q,c,mode,dc){const black=[],white=[],pink=[],dark=[];
- for(const sd of[-1,1]){const cx=sd*.55,cy=.55;black.push(sgOval(cx,cy,.34,.44,.025));white.push(sgOval(cx,cy,.29,.39,.035));black.push(sgOval(cx+sd*.04,cy-.05,.2,.28,.05));white.push(sgOval(cx+sd*.08,cy+.08,.05,.05,.06))}
- black.push(sgOval(0,-.45,.86,.6,.025));pink.push(sgOval(0,-.45,.81,.55,.05));for(const sd of[-1,1])dark.push(sgOval(sd*.28,-.25,.07,.1,.07));
- const sm=new T.Shape();sm.moveTo(-.4,-.55);sm.quadraticCurveTo(0,-1.0,.4,-.55);sm.quadraticCurveTo(0,-.72,-.4,-.55);dark.push(flatShape(sm,.065,0));const tooth=new T.Shape();tooth.moveTo(-.12,-.66);tooth.lineTo(.02,-.67);tooth.lineTo(.0,-.8);tooth.lineTo(-.1,-.78);tooth.closePath();white.push(flatShape(tooth,.075,0));
- const R=sgR(dc),B=l=>sgBend(mg(l),R);return[[dmat('#1d1b1f',{r:.35,cc:.5}),B(black)],[dmat('#ffffff',{r:.35,cc:.4}),B(white)],[dmat(c,{r:.4,cc:.4}),B(pink)],[dmat('#7a1f35',{r:.4,cc:.4}),B(dark)]]}
+ return[[dmat('#1d1b1f',{r:.35,cc:.5}),mg(horns)],[bowMat(c),mergeGeometries(bows)]]}
+function cowEarParts(q,c){const e=new T.SphereGeometry(1,28,18);e.scale(.5,.78,.09);e.translate(0,-.62,0);e.rotateX(-.55);const o=new T.SphereGeometry(1,28,18);o.scale(.53,.81,.06);o.translate(0,-.62,-.02);o.rotateX(-.55);const i=new T.SphereGeometry(1,24,14);i.scale(.36,.6,.06);i.translate(0,-.6,.05);i.rotateX(-.55);return[[dmat('#ffffff',{r:.45,cc:.3}),e],[dmat('#1d1b1f',{r:.4,cc:.4}),o],[dmat(c,{r:.45,cc:.3}),i]]}
+function cowFaceParts(q,c,mode,dc){const black=[],white=[],pink=[],dark=[],red=[],tongue=[];
+ const rov=(x,y,rx,ry,rot,d)=>{const pts=[],cr=Math.cos(rot),sr=Math.sin(rot);for(let i=0;i<72;i++){const a=i/72*2*PI,u=rx*Math.cos(a),v=ry*Math.sin(a);pts.push(new T.Vector2(x+u*cr-v*sr,y+u*sr+v*cr))}return flatShape(new T.Shape(pts),d,0)};
+ // eyes: left smaller and lower, right bigger and higher, pupils looking up and right
+ const E=[[-.52,.3,.27,.4,-.12,.24],[.22,.6,.33,.47,.18,.3]];
+ for(const[x,y,rx,ry,r,pr]of E){black.push(rov(x,y,rx+.045,ry+.045,r,.03));white.push(rov(x,y,rx,ry,r,.04));black.push(rov(x+rx*.28,y+ry*.12,rx*.66,ry*.74,r,.055));white.push(rov(x+rx*.1,y+ry*.45,.05,.05,0,.065));
+  const l=new T.Shape();l.moveTo(x-rx*.9,y-ry*1.05);l.quadraticCurveTo(x+rx*.3,y-ry*1.45,x+rx*1.5,y-ry*.95);l.quadraticCurveTo(x+rx*.3,y-ry*1.3,x-rx*.9,y-ry*1.05);black.push(flatShape(l,.035,0))}
+ // muzzle
+ black.push(rov(.12,-.52,.9,.64,.22,.03));pink.push(rov(.12,-.52,.84,.58,.22,.05));
+ for(const[x,y]of[[-.28,-.24],[.43,-.06]]){black.push(rov(x,y,.085,.065,.2,.06));dark.push(rov(x,y,.055,.038,.2,.07))}
+ // big open smile: straight top lip, round bottom
+ const M=k=>{const cx=.12,cy=-.62,P=(x,y)=>[cx+(x-cx)*k,cy+(y-cy)*k];const s=new T.Shape();s.moveTo(...P(-.42,-.52));s.quadraticCurveTo(...P(.1,-.42),...P(.66,-.26));s.bezierCurveTo(...P(.72,-.75),...P(.25,-1.05),...P(-.12,-.92));s.quadraticCurveTo(...P(-.38,-.8),...P(-.42,-.52));return s};
+ black.push(flatShape(M(.92),.06,0));red.push(flatShape(M(.82),.07,0));
+ const tg=new T.Shape();tg.absellipse(.2,-.8,.18,.08,0,2*PI,false,.15);tongue.push(flatShape(tg,.075,0));
+ const th=new T.Shape();th.moveTo(-.16,-.52);th.lineTo(.02,-.49);th.lineTo(.0,-.66);th.lineTo(-.15,-.68);th.closePath();white.push(flatShape(th,.08,0));
+ const R=sgR(dc),B=l=>sgBend(mg(l),R);return[[dmat('#1d1b1f',{r:.35,cc:.5}),B(black)],[dmat('#ffffff',{r:.35,cc:.4}),B(white)],[dmat(c,{r:.4,cc:.4}),B(pink)],[dmat('#a0475c',{r:.4,cc:.4}),B(dark)],[dmat('#8a2338',{r:.45,cc:.4}),B(red)],[dmat('#e77f96',{r:.45,cc:.4}),B(tongue)]]}
 // ---------- baby shower ----------
 function teddyParts(q,c){const S=(sx,sy,sz,x,y,z)=>{const g=new T.SphereGeometry(1,20,14);g.scale(sx,sy,sz);g.translate(x,y,z);return g};
  const fur=[S(.34,.36,.3,0,.36,0),S(.28,.26,.26,0,.92,0),S(.1,.1,.06,-.2,1.14,0),S(.1,.1,.06,.2,1.14,0),S(.12,.1,.1,-.3,.42,.16),S(.12,.1,.1,.3,.42,.16),S(.13,.12,.18,-.18,.1,.26),S(.13,.12,.18,.18,.1,.26)];
@@ -119,7 +130,8 @@ Object.assign(DECOR,{
  dollarsign:{label:'Gold Dollar Signs',layouts:['cluster','crown'],layout:'cluster',count:2,max:6,color:'#d4ae5a',colors:['#d4ae5a','#c9ccd2','#1d1b1f'],sp:1,sink:.35,noTilt:true,spin:0,make:dollarStandParts},
  dollarface:{label:'Dollar Sign Plaque',layouts:['scatter','band'],layout:'scatter',count:1,max:6,color:'#d4ae5a',colors:['#d4ae5a','#c9ccd2','#1d1b1f'],sp:1.2,side:'face',roll:0,sink:0,embed:-.02,make:dollarFaceParts},
  sugarbows:{label:'Fondant Bows',layouts:['band','scatter','cascade','crown'],layout:'band',count:4,max:16,color:'#f3a6c0',colors:['#f3a6c0','#fbf7f1','#d4ae5a','#c9dbef','#e8475f','#1d1b1f'],sp:1.4,side:'face',roll:.2,sink:0,embed:-.02,make:sugarBowParts},
- cowtop:{label:'Cow Horns, Ears And Bows',layouts:['cluster'],layout:'cluster',count:1,max:1,color:'#f3a6c0',colors:['#f3a6c0','#c9dbef','#fbf7f1','#e8475f'],sp:3,side:'up',sink:.02,noTilt:true,spin:0,make:cowTopParts},
+ cowtop:{label:'Cow Horns And Bows',layouts:['cluster'],layout:'cluster',count:1,max:1,color:'#f3a6c0',colors:['#f3a6c0','#c9dbef','#fbf7f1','#e8475f'],sp:3,side:'up',sink:.02,noTilt:true,spin:0,make:cowTopParts},
+ cowear:{label:'Floppy Cow Ear',layouts:['band'],layout:'band',count:1,max:2,color:'#f3b6c8',colors:['#f3b6c8','#f3a6c0'],sp:3,roll:0,sink:0,embed:.02,make:cowEarParts},
  cowface:{label:'Cartoon Cow Face',layouts:['band','scatter'],layout:'band',count:1,max:1,color:'#f3a6c0',colors:['#f3a6c0','#e9a6ba'],sp:3,side:'face',roll:0,sink:0,embed:-.02,make:cowFaceParts},
  teddy:{label:'Fondant Teddy Bears',layouts:['cluster','crown','scatter'],layout:'cluster',count:1,max:6,color:'#fbf7f1',colors:['#fbf7f1','#c9a26b','#f3c1cf','#c9dbef'],sp:1.4,side:'up',sink:.02,noTilt:true,spin:0,make:teddyParts},
  abcblocks:{label:'Alphabet Blocks',mixes:true,layouts:['cluster','crown','scatter'],layout:'cluster',count:3,max:12,color:'#2f6fd0',colors:['#2f6fd0','#e8475f','#5cc06c','#f2c230','#f3a6c0'],sp:.7,side:'up',sink:0,embed:.02,noTilt:true,make:abcBlockParts},
@@ -129,7 +141,7 @@ Object.assign(DECOR,{
  brooch:{label:'Jeweled Brooch Burst',layouts:['band','scatter'],layout:'band',count:1,max:4,color:'#d9a08a',colors:['#d9a08a','#d4ae5a','#c9ccd2'],sp:2,side:'face',roll:0,sink:0,embed:-.02,make:broochParts},
  hoop:{label:'Floral Hoop Topper',layouts:['cluster'],layout:'cluster',count:1,max:1,color:'#d4ae5a',colors:['#d4ae5a','#c9ccd2','#d9a08a'],sp:2,sink:.4,noTilt:true,spin:0,make:hoopParts},
  bee:{label:'Bumble Bee',layouts:['cluster','crown','scatter'],layout:'cluster',count:1,max:6,color:'#ffd21f',colors:['#ffd21f'],sp:1.4,side:'up',sink:.02,noTilt:true,spin:0,make:beeParts}});
-DECOR_CATS.push({key:'signature',label:'Signature Cake Pieces',items:['soccerball','football','hoopball','baseball2','popcorn','ticket','clapper','crawfish','corncob','potato','potlid','cash','dollarsign','dollarface','sugarbows','cowtop','cowface','teddy','abcblocks','balloon','ladder','buttons','brooch','hoop','bee']});
+DECOR_CATS.push({key:'signature',label:'Signature Cake Pieces',items:['soccerball','football','hoopball','baseball2','popcorn','ticket','clapper','crawfish','corncob','potato','potlid','cash','dollarsign','dollarface','sugarbows','cowtop','cowear','cowface','teddy','abcblocks','balloon','ladder','buttons','brooch','hoop','bee']});
 {const ic=(k,b)=>DECOR_ICONS[k]=di(b);
  ic('soccerball','<circle cx="20" cy="15" r="10" fill="#fff" stroke="#222"/><path d="M20 10l4 3-1.5 4.5h-5L16 13z" fill="#222"/>');
  ic('football','<ellipse cx="20" cy="15" rx="13" ry="8" fill="#7a4022"/><path d="M15 15h10M17 13v4M20 13v4M23 13v4" stroke="#fff" stroke-width="1.2"/>');
@@ -147,6 +159,7 @@ DECOR_CATS.push({key:'signature',label:'Signature Cake Pieces',items:['soccerbal
  ic('dollarface','<rect x="8" y="4" width="24" height="22" rx="3" fill="#fff4ef"/><text x="20" y="22" font-size="17" text-anchor="middle" fill="#d4ae5a" font-weight="700">$</text>');
  ic('sugarbows','<path d="M20 15l-10-6v12zM20 15l10-6v12z" fill="#f3a6c0"/><circle cx="20" cy="15" r="2.6" fill="#e17ca0"/>');
  ic('cowtop','<path d="M10 22q-2-10 3-14M30 22q2-10-3-14" stroke="#1d1b1f" stroke-width="3" fill="none"/><ellipse cx="5" cy="22" rx="5" ry="2.5" fill="#f3a6c0"/><ellipse cx="35" cy="22" rx="5" ry="2.5" fill="#f3a6c0"/>');
+ ic('cowear','<ellipse cx="20" cy="20" rx="9" ry="14" fill="#fff" stroke="#1d1b1f" stroke-width="2"/><ellipse cx="20" cy="21" rx="6" ry="10" fill="#f3b6c8"/>');
  ic('cowface','<ellipse cx="14" cy="10" rx="4" ry="5" fill="#fff" stroke="#1d1b1f"/><ellipse cx="26" cy="10" rx="4" ry="5" fill="#fff" stroke="#1d1b1f"/><ellipse cx="20" cy="21" rx="10" ry="6" fill="#f3a6c0" stroke="#1d1b1f"/>');
  ic('teddy','<circle cx="20" cy="20" r="7" fill="#fbf7f1" stroke="#d9cdbd"/><circle cx="20" cy="10" r="5" fill="#fbf7f1" stroke="#d9cdbd"/><circle cx="16" cy="6.5" r="2" fill="#fbf7f1" stroke="#d9cdbd"/><circle cx="24" cy="6.5" r="2" fill="#fbf7f1" stroke="#d9cdbd"/>');
  ic('abcblocks','<rect x="7" y="13" width="12" height="12" fill="#fff" stroke="#2f6fd0"/><rect x="21" y="13" width="12" height="12" fill="#fff" stroke="#e8475f"/><rect x="14" y="2" width="12" height="11" fill="#fff" stroke="#5cc06c"/>');

diff --git a/tools/sig-themes.js b/tools/sig-themes.js
@@ -21,8 +21,8 @@ THEMES.unshift(
   newTier(8.6,6,{color:'#7cc8b8',finish:'fondant',top:'none',bottom:'none',stencil:{pattern:'harlequin',color:'#c4e8df',size:1.6,height:3,y:-1.4},decor:[DC('glitterspheres','cascade',6,{color:'#b0825f',rot:-100,size:290}),DC('glitterspheres','cascade',5,{color:'#f3ead8',rot:-96,size:300}),DC('spheres','cascade',3,{color:'#5fb3a3',rot:-104,size:280}),DC('glitterspheres','cascade',4,{color:'#8c6a52',rot:-100,size:220})]}),
   newTier(7.6,5.8,{color:'#7cc8b8',finish:'fondant',top:'none',bottom:'none',decor:[DC('glitterspheres','cascade',5,{color:'#b0825f',rot:-100,size:280}),DC('glitterspheres','cascade',4,{color:'#f3ead8',rot:-96,size:290}),DC('spheres','cascade',3,{color:'#5fb3a3',rot:-104,size:270}),DC('glitterspheres','cascade',3,{color:'#8c6a52',rot:-100,size:210})]}),
   newTier(6.6,5.6,{color:'#7cc8b8',finish:'fondant',top:'none',bottom:'none',decor:[DC('glitterspheres','cascade',5,{color:'#b0825f',rot:-100,size:270}),DC('glitterspheres','cascade',4,{color:'#f3ead8',rot:-96,size:280}),DC('spheres','cascade',3,{color:'#5fb3a3',rot:-104,size:260}),DC('sprinkles','cascade',220,{mix:['#5fb3a3','#d4ae5a','#c9ccd2','#fbf7f1'],rot:30})]})]}},
- {key:'sig_cow',name:'Pink Bow Cow',tag:SIG,blurb:'A tall white cow cake with black spots, a cartoon face and pink nose, black horns, floppy ears and pink bows.',d:{board:'white',boardColor:'#fbf7f1',topper:'none',tiers:[
-  newTier(7,6,{color:'#ffffff',finish:'fondant',print:'cow',printColor:'#1d1b1f',top:'none',bottom:'none',decor:[DC('cowface','band',1,{color:'#f3a6c0',size:285,R:3.5,rot:55}),DC('cowtop','cluster',1,{color:'#f3a6c0',size:170,center:true,face:95})]})]}},
+ {key:'sig_cow',name:'Pink Bow Cow',tag:SIG,blurb:'A white cow cake with black spots, big cartoon eyes, a pink muzzle with a wide open grin, floppy pink-lined ears, black horns and pink bows.',d:{board:'white',boardColor:'#fbf7f1',topper:'none',tiers:[
+  newTier(8,6.2,{color:'#ffffff',finish:'fondant',print:'cow',printColor:'#1d1b1f',top:'none',bottom:'none',decor:[DC('cowface','band',1,{color:'#f3b6c8',size:300,R:4,rot:55,y:.3}),DC('cowear','band',1,{color:'#f3b6c8',size:200,rot:-25,y:2.6}),DC('cowear','band',1,{color:'#f3b6c8',size:200,rot:135,y:2.6}),DC('cowtop','cluster',1,{color:'#f3a6c0',size:190,center:true,face:95})]})]}},
  {key:'sig_pillows',name:'Gold Damask Pillows',tag:SIG,blurb:'A pillow cake: a base tier in gold damask with a ring of ivory roses, a puffy pleated pillow with pinched corners and gold tassels, and a silver rose dome topped with ivory roses.',d:{board:'silver',boardShape:'square',topper:'none',tiers:[
   newTier(10,3.6,{shape:'square',color:'#fbf7f1',finish:'fondant',texture:'dimple',prof:'pillow',top:'rope',pipe:'#d4ae5a',bottom:'rope',bottomColor:'#d4ae5a',stencil:{pattern:'damask',color:'#d4ae5a',size:1.8,height:1.8,y:-.8},decor:[DC('roses','band',16,{color:'#fbf7f1',size:130,y:-1.4})]}),
   newTier(7.5,3.2,{shape:'square',color:'#fbf7f1',finish:'fondant',texture:'ruffle',prof:'pillow',top:'none',bottom:'scrolls',bottomColor:'#d4ae5a'}),
